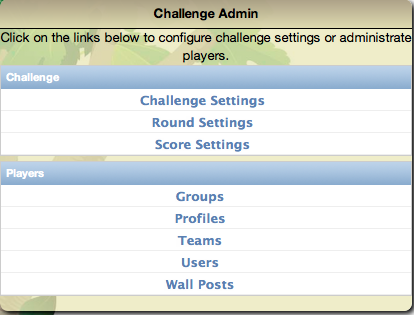
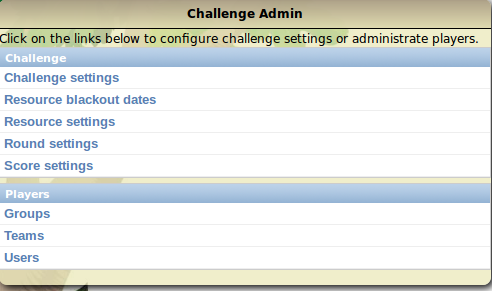
Updating RTD configuration images and minor text changes.

diff --git a/doc/configuration-challenge-admin-challenge-settings.rst b/doc/configuration-challenge-admin-challenge-settings.rst
@@ -12,9 +12,9 @@ After clicking on the "Challenge Settings" link in the Challenge Admin widget, a
    :width: 600 px
    :align: center
 
-Under normal circumstances, there is only one challenge instance per system.  By default, this is called "University of Hawaii at Manoa".  Select this instance; you will be able to change its name below.
+Under normal circumstances, there is only one challenge instance per system.  By default, this is called "Kukui Cup/UH".  Select this instance; you will be able to change its name below.
 
-The following sections detail each part of the page that appears after selecting "University of Hawaii at Manoa".   
+The following sections detail each part of the page that appears after selecting "Kukui Cup/UH".   
 
 Configure names
 ---------------
@@ -23,7 +23,7 @@ Configure names
    :width: 600 px
    :align: center
 
-This section of the page enables you to change the name of the site, the logo, the competition name, the team label, the domain, and the default theme.  
+This section of the page enables you to change the name, the location, the logo, the domain name, team label, and the default theme.  
 
 Configure authentication
 ------------------------
